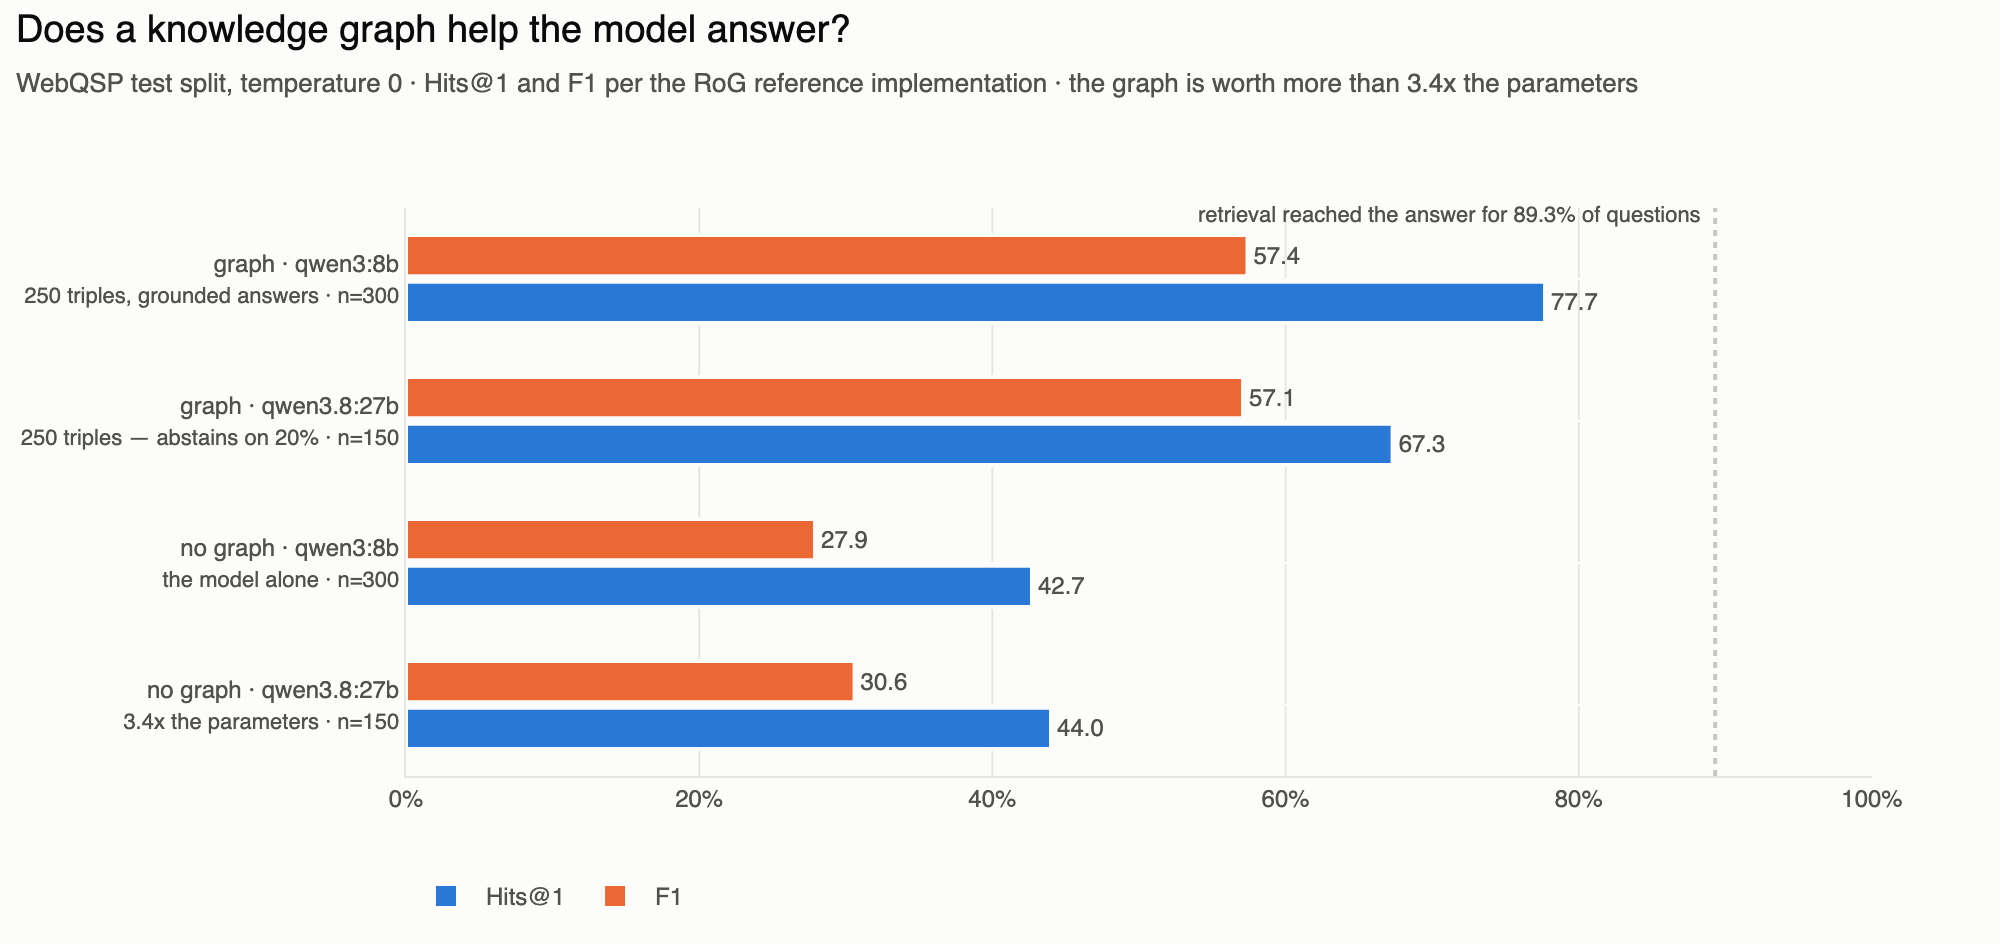
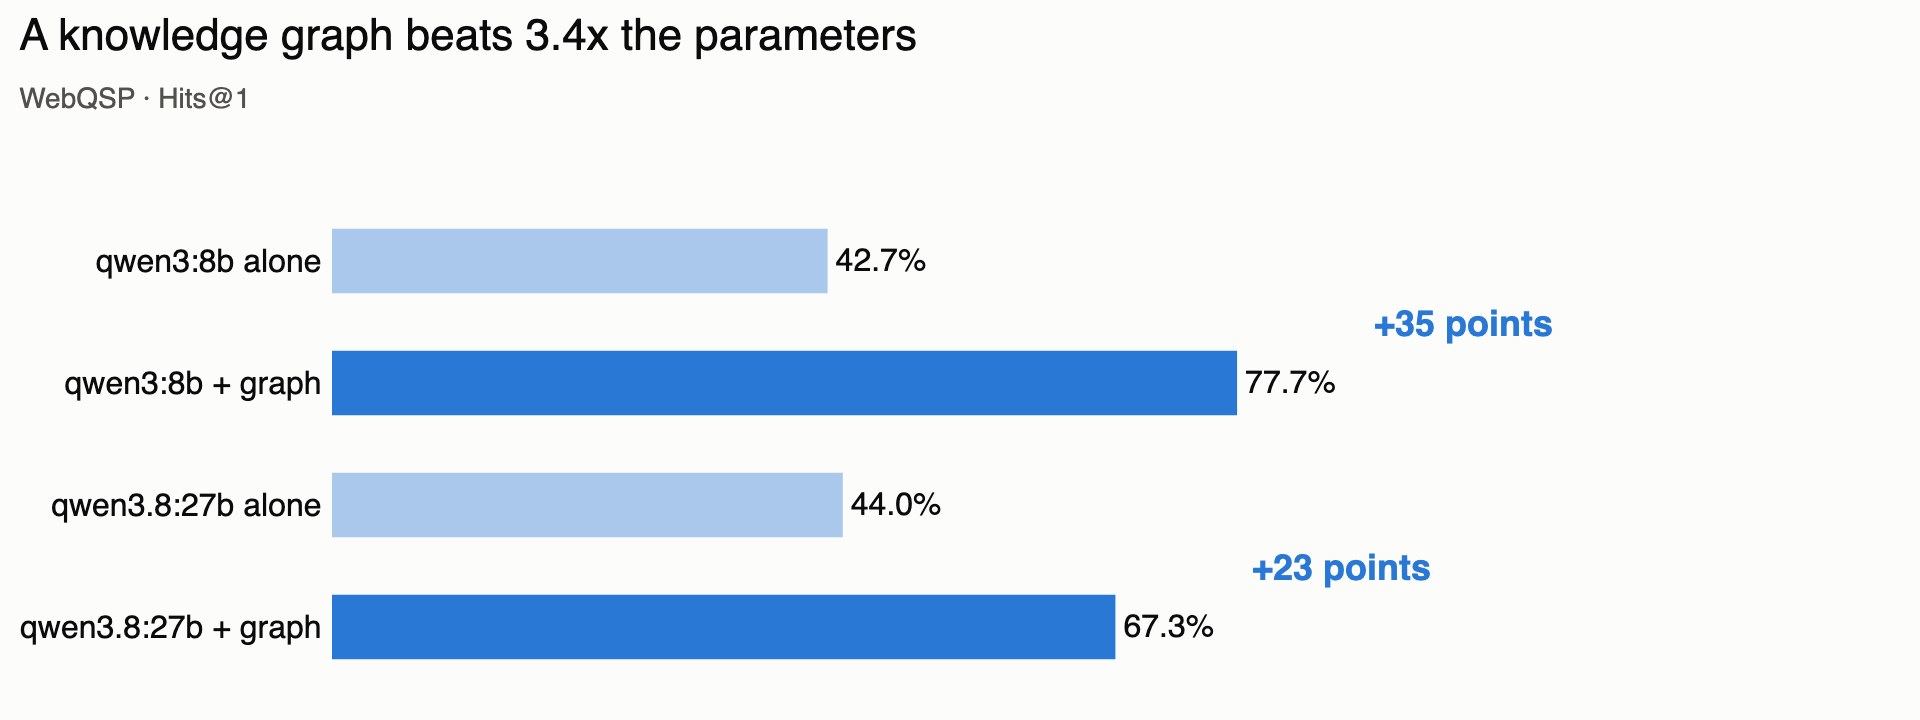
benchmarks: 図を2枚に絞った。線グラフは形そのものが間違っていた
「なぜ線にしているのか分からない」という指摘が正しかった。線は「連続した
傾向」を約束して読み手に傾きを読ませるが、あの図の発見は「2本が同じ」で
ある。線はそれを読みにくくする方に働いていた。しかも1-hop+CVTは点が1つ
しかなく、線では表せない。

retrieval_chart.py と retrieval.png、retrieval_data.json を削除した。
あの図が運んでいた内容は表で足りる。図が存在する理由は「表では言えない
ことを言う」であって、あれはそれを満たしていなかった。悪い図を参照せずに
置いておくのは、ただの散らかしである。

冒頭も数字3つにして、先に出すのを 89.3% にした:

  trikedb は300問のうち 89.3% で正解をモデルの目の前に置いた（1問0.59秒）
  小さなローカルのリーダーを付けると端から端まで 77.7%
  グラフなしの同じモデルは 42.7%

77.7% はリーダーLLMが落とした分を含む数字で、89.3% が trikedb 自身を測った
数字である。先に出すべきは後者。ただし精度とは混ぜず「正解が文脈にあった率」
と明記している。

精度チャートから削ったもの: 2つ目の指標、行ごとの副ラベル、到達率の参照線、
凡例、軸目盛り。どれも単体では正当化できるが、合わさると発見を埋めていた。
残したのは棒4本・ラベル4つ・差の注記2つだけ。F1・n・到達率は表にある。
モデルごとにペアを隣接させ、グラフありの行を濃く、差を「+35 points」と
大きく出した。

frontier.png も本文からは外した（スクリプトとデータは残す）。
3言語すべて同じ構成。

diff --git a/benchmarks/accuracy_chart.py b/benchmarks/accuracy_chart.py
@@ -1,8 +1,14 @@
-"""Render accuracy_data.json as a grouped bar chart.
+"""Render accuracy_data.json as the one bar chart the benchmark exists for.
 
     python benchmarks/webqsp_bench.py score bench_out/hybrid/eval_set.json \
         bench_out/ans_*.jsonl --json benchmarks/accuracy_data.json
     python benchmarks/accuracy_chart.py        # -> benchmarks/accuracy.png
+
+Deliberately austere. An earlier version carried both metrics, a sub-label per
+row, a reference line for retrieval reach, a legend and an axis — every item
+defensible on its own, and together they buried the finding. This one shows
+four bars, four labels and two deltas. F1, n and reach live in the tables in
+README.md, where a reader who wants them is already reading numbers.
 
 Needs plotly and kaleido:  pip install plotly kaleido
 """
@@ -19,83 +25,74 @@ HERE = Path(__file__).resolve().parent
 SURFACE = "#fcfcfb"
 INK = "#0b0b0b"
 INK_MUTED = "#52514e"
-GRID = "#e6e5e1"
-RULE = "#c9c7c0"
 
-#: Two slots, in fixed order. Validated on the light surface: worst adjacent
-#: CVD dE 24.7 (protan), normal-vision dE 33.6, both above 3:1 against the
-#: surface. Same pair the ceiling chart uses, so the two figures in this
-#: directory do not disagree about what blue and orange mean.
-HITS = "#2a78d6"
-F1 = "#eb6834"
+#: One measure, so one hue — the blue Hits@1 wears in every figure here. The
+#: pale tint is the same hue lightened, not a second colour: rows without a
+#: graph are the baseline, and the eye should land on the rows with one.
+WITH_GRAPH = "#2a78d6"
+WITHOUT_GRAPH = "#a9c8ec"
 
-#: filename -> (row label, sub-label). Order here is the order of the chart,
-#: bottom to top, so the story reads upward: no graph, then the graph as it
-#: was, then the graph with the retrieval this benchmark ended up choosing.
+#: filename -> (label, has a graph). Bottom to top, paired by model so each
+#: model's before/after sits adjacent — interleaving the conditions put the two
+#: halves of the comparison four rows apart, and a jump you have to hunt for is
+#: a jump nobody sees.
 ROWS = [
-    ("ans_nograph_27b.jsonl", "no graph · qwen3.8:27b", "3.4x the parameters"),
-    ("ans_nograph_8b.jsonl", "no graph · qwen3:8b", "the model alone"),
-    ("ans_hybrid_grounded_27b.jsonl", "graph · qwen3.8:27b", "250 triples — abstains on 20%"),
-    ("ans_hybrid_grounded_8b.jsonl", "graph · qwen3:8b", "250 triples, grounded answers"),
+    ("ans_hybrid_grounded_27b.jsonl", "qwen3.8:27b + graph", True),
+    ("ans_nograph_27b.jsonl", "qwen3.8:27b alone", False),
+    ("ans_hybrid_grounded_8b.jsonl", "qwen3:8b + graph", True),
+    ("ans_nograph_8b.jsonl", "qwen3:8b alone", False),
 ]
 
-#: Answer-in-context for the retrieval the top row uses, on the same 300
-#: questions. It shares the axis with the bars because it is also a
-#: percentage-of-questions, but it is a *different quantity* — what retrieval
-#: put in front of the model, not what the model got right — and reading it as
-#: a taller bar is the mistake the line invites. Hence the wording: "reached",
-#: not a percentage score. The gap between it and the top bar is 38 questions
-#: whose answer was in the context and did not come out of the model.
-CEILING = 89.3
-CEILING_LABEL = "retrieval reached the answer for 89.3% of questions"
+#: (lower row, upper row) whose gap gets a delta callout. The number this
+#: benchmark exists to produce is a *difference*, and a difference the reader
+#: has to compute by eye is one they will not compute.
+DELTAS = [("ans_nograph_8b.jsonl", "ans_hybrid_grounded_8b.jsonl"),
+          ("ans_nograph_27b.jsonl", "ans_hybrid_grounded_27b.jsonl")]
 
 
 def main() -> None:
     scored = {r["answers"]: r for r in json.loads((HERE / "accuracy_data.json").read_text())}
-    rows = [(label, sub, scored[name]) for name, label, sub in ROWS if name in scored]
+    rows = [(label, graph, scored[name]) for name, label, graph in ROWS if name in scored]
     if not rows:
-        raise SystemExit("no rows matched accuracy_data.json — check the filenames in ROWS")
+        raise SystemExit("no rows matched accuracy_data.json — check ROWS")
 
-    # n per row, not one figure for the whole chart: a run stopped early is a
-    # smaller n, and hiding that behind a single number would overstate it.
-    y = [f"{label}<br><span style='font-size:11px;color:{INK_MUTED}'>{sub} · n={r['n']}</span>"
-         for label, sub, r in rows]
-    figure = go.Figure()
-    figure.add_vline(x=CEILING, line=dict(color=RULE, width=2, dash="dot"))
-    figure.add_annotation(
-        x=CEILING, y=1.015, xref="x", yref="paper",
-        text=CEILING_LABEL,
-        showarrow=False, font=dict(size=11, color=INK_MUTED),
-        xanchor="right", xshift=-6, yshift=1,
-    )
-    for key, name, color in (("hits_at_1", "Hits@1", HITS), ("f1", "F1", F1)):
-        values = [r[key] for _, _, r in rows]
-        figure.add_trace(go.Bar(
-            y=y, x=values, name=name, orientation="h",
-            marker=dict(color=color, line=dict(color=SURFACE, width=2)),
-            text=[f"{v:.1f}" for v in values], textposition="outside",
-            textfont=dict(size=12, color=INK_MUTED), cliponaxis=False,
-            hovertemplate="%{y}<br>" + name + " %{x:.1f}%<extra></extra>",
-        ))
+    figure = go.Figure(go.Bar(
+        y=[label for label, _, _ in rows],
+        x=[r["hits_at_1"] for _, _, r in rows],
+        orientation="h",
+        marker=dict(color=[WITH_GRAPH if g else WITHOUT_GRAPH for _, g, _ in rows],
+                    line=dict(color=SURFACE, width=2)),
+        text=[f"{r['hits_at_1']:.1f}%" for _, _, r in rows],
+        textposition="outside", cliponaxis=False,
+        textfont=dict(size=16, color=INK),
+        hovertemplate="%{y}<br>Hits@1 %{x:.1f}%<extra></extra>",
+    ))
+
+    index = {name: i for i, (name, _, _) in enumerate(ROWS) if name in scored}
+    for low, high in DELTAS:
+        if low in index and high in index:
+            gain = scored[high]["hits_at_1"] - scored[low]["hits_at_1"]
+            figure.add_annotation(
+                x=scored[high]["hits_at_1"], y=(index[low] + index[high]) / 2,
+                text=f"<b>{gain:+.0f} points</b>", showarrow=False, xshift=112,
+                font=dict(size=18, color=WITH_GRAPH),
+            )
 
     figure.update_layout(
         title=dict(
-            text=("Does a knowledge graph help the model answer?<br>"
-                  f"<span style='font-size:13px;color:{INK_MUTED}'>WebQSP test "
-                  "split, temperature 0 · Hits@1 and F1 per the RoG reference "
-                  "implementation · the graph is worth more than 3.4x the "
-                  "parameters</span>"),
-            font=dict(size=19, color=INK), x=0.008, xanchor="left", y=0.955,
+            text=("A knowledge graph beats 3.4x the parameters<br>"
+                  f"<span style='font-size:14px;color:{INK_MUTED}'>WebQSP · "
+                  "Hits@1</span>"),
+            font=dict(size=22, color=INK), x=0.01, xanchor="left", y=0.93,
         ),
-        barmode="group", bargap=0.34, bargroupgap=0.12,
+        bargap=0.44,
         paper_bgcolor=SURFACE, plot_bgcolor=SURFACE,
-        font=dict(family="Helvetica, Arial, sans-serif", color=INK_MUTED, size=12),
-        xaxis=dict(range=[0, 100], gridcolor=GRID,
-                   zeroline=False, linecolor=GRID, ticksuffix="%"),
-        yaxis=dict(gridcolor=SURFACE, zeroline=False, linecolor=GRID),
-        legend=dict(orientation="h", y=-0.16, x=0, bgcolor="rgba(0,0,0,0)",
-                    font=dict(size=12)),
-        margin=dict(l=10, r=64, t=104, b=52), width=1000, height=104 + 92 * len(rows),
+        font=dict(family="Helvetica, Arial, sans-serif", color=INK, size=16),
+        xaxis=dict(range=[0, 100], showgrid=False, zeroline=False,
+                   showticklabels=False),
+        yaxis=dict(showgrid=False, zeroline=False, linecolor=SURFACE),
+        showlegend=False,
+        margin=dict(l=10, r=210, t=100, b=16), width=960, height=360,
     )
     out = HERE / "accuracy.png"
     figure.write_image(out, scale=2)

diff --git a/benchmarks/retrieval_bench.py b/benchmarks/retrieval_bench.py
@@ -15,7 +15,7 @@ answer in the window", and read the accuracy numbers next to it.
 
 Run:
     uv run --with polars python benchmarks/retrieval_bench.py \\
-        --n 100 --seed 42 > benchmarks/retrieval_data.json
+        --n 100 --seed 42 > bench_out/retrieval_progress.jsonl
 
 Add `--budget 250` to change the cap. The dataset is downloaded at runtime and
 never stored in this repository.

diff --git a/benchmarks/README_zh.md b/benchmarks/README_zh.md
@@ -6,13 +6,16 @@
 
 # 基准测试
 
-按重要程度排序的两个问题：
+**在 300 道 WebQSP 问题中，trikedb 有 89.3% 把标准答案摆到了模型面前，每题耗时
+0.59 秒。** 配上一个小的本地阅读模型，端到端就是 77.7% 答对 — 而同一个模型在没有
+图谱时是 42.7%。
 
-1. **[图谱能让 LLM 更准确吗？](#kgqa-图谱能减少幻觉吗)**
-   — 在 300 道 WebQSP 问题上 Hits@1 从 42.7% 到 77.7%，两边用的是同一个模型。
-   我们同时报告评分协议本身的敏感性，因为标题数字会随着你怎么评分而变动。
-2. **[天花板在哪里？](#天花板在哪里)** — 哪个操作最先变得不可用，以及在多大的
-   图谱规模上。这和「能装多少条三元组」是两个问题，而后者根本没有东西能碰到。
+![按模型与条件划分的 Hits@1](accuracy.png)
+
+相比之下，把阅读模型的参数变成三倍，在没有图谱时什么都没改变（44.0% 对 42.7%，
+配对检验 p = 1.0）。在这里推动准确率的东西，不是模型规模。
+
+下面全部是：这些数字是怎么得出的、它们没有说什么，以及天花板在哪里。
 
 ## KGQA：图谱能减少幻觉吗
 
@@ -34,8 +37,6 @@ temperature 0。Hits@1 和 F1 按 RoG 参考实现的算法计算。
 | 模型单独作答 | 42.7% | 27.9% |
 | **模型 + 一个 trikedb 图谱** | **77.7%** | **57.4%** |
 | 差值 | **+35.0pt** | **+29.6pt** |
-
-![按条件划分的 Hits@1 与 F1](accuracy.png)
 
 同一个模型，同一个提示，同一批问题。唯一变化的是检索到的三元组是否在上下文里。
 
@@ -146,8 +147,6 @@ p = 9e-20）还很远，值得当作两个主张里较弱的那一个。
 **这里面几乎全部来自排序，而不是来自实体锚点。** 在三个预算上重建，hybrid 和
 纯语义检索完全叠在一起：
 
-![可达率对上下文预算](retrieval.png)
-
 | 检索 | 100 条 | 150 | 250 |
 |---|---|---|---|
 | hybrid — 实体锚点 + 语义 | 81.3% | 84.7% | **89.3%** |
@@ -204,8 +203,6 @@ p = 9e-20）还很远，值得当作两个主张里较弱的那一个。
 
 图谱花的是提示 token，而提示 token 就是运行时间。在一台空闲的机器上单独测量，
 一次一个请求 — 这是一个只问一个问题的人真正要等的延迟：
-
-![准确率对每题秒数](frontier.png)
 
 | 条件 | 秒数中位数 | 提示 | Hits@1 |
 |---|---|---|---|

diff --git a/benchmarks/README.md b/benchmarks/README.md
@@ -6,15 +6,18 @@
 
 # Benchmarks
 
-Two questions, in the order they matter:
+**trikedb put the gold answer in front of the model for 89.3% of 300 WebQSP
+questions, taking 0.59 s each.** With a small local reader that becomes 77.7%
+answered correctly end to end — against 42.7% for the same model with no graph.
 
-1. **[Does the graph make an LLM more accurate?](#kgqa-does-the-graph-reduce-hallucination)**
-   — Hits@1 42.7% → 77.7% on 300 WebQSP questions, same model either way. The
-   protocol's own sensitivity is reported alongside it, because the headline
-   number moves depending on how you score.
-2. **[Where is the ceiling?](#where-is-the-ceiling)** — which operation stops
-   being usable first, and at what graph size. Not the same as "how many
-   triples fit", which nothing reaches.
+![Hits@1 by model and condition](accuracy.png)
+
+Tripling the reader's parameters, by contrast, changed nothing without a graph
+(44.0% against 42.7%, paired p = 1.0). Whatever moves accuracy here, it is not
+model size.
+
+Everything below is how those numbers were produced, what they do not say, and
+where the ceiling is.
 
 ## KGQA: does the graph reduce hallucination?
 
@@ -39,8 +42,6 @@ the way the RoG reference implementation computes them.
 | the model alone | 42.7% | 27.9% |
 | **the model + a trikedb graph** | **77.7%** | **57.4%** |
 | difference | **+35.0pt** | **+29.6pt** |
-
-![Hits@1 and F1 by condition](accuracy.png)
 
 Same model, same prompt, same questions. The only thing that changes is
 whether the retrieved triples are in the context.
@@ -166,8 +167,6 @@ context (below) made every gold answer reachable and accuracy did not move.
 **Almost all of that comes from the ranking, not the entity anchor.** Rebuilt
 at three budgets, hybrid and pure semantic search sit on top of each other:
 
-![Reach against context budget](retrieval.png)
-
 | retrieval | 100 triples | 150 | 250 |
 |---|---|---|---|
 | hybrid — entity anchor + semantic | 81.3% | 84.7% | **89.3%** |
@@ -234,8 +233,6 @@ condition and on any machine where prefill is not the wall.
 The graph costs prompt tokens, and prompt tokens are the run time. Measured
 alone on an idle machine, one request at a time — the latency a person asking
 one question actually waits:
-
-![Accuracy against seconds per question](frontier.png)
 
 | condition | median seconds | prompt | Hits@1 |
 |---|---|---|---|
